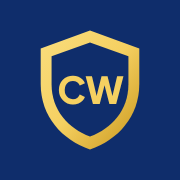
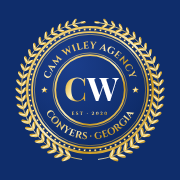
Brand: the Cam Wiley Agency seal replaces the shield
- Full seal (olive wreath, beaded border, CAM WILEY AGENCY / CONYERS ·
  GEORGIA, serif CW, EST · 2020): public/brand/cw-seal.png, the
  home-screen icons (apple-touch-icon, icon-512).
- Small form (foil ring + serif CW) in the header everywhere, the browser
  tab icon (PNG + ICO) and the share image.
- Playfair Display loaded for the CW.

Claude-Session: https://claude.ai/code/session_01ALNZAc94dnod2U2WV7PUZi

diff --git a/src/components/BrandLogo.jsx b/src/components/BrandLogo.jsx
@@ -1,23 +1,29 @@
 // src/components/BrandLogo.jsx
-// The brand: a gold-edged navy shield with "CW", "Cam Wiley Agency", and a line
+// The brand: the Cam Wiley Agency seal (small form), "Cam Wiley Agency", and a line
 // under it ("Allstate agent · Conyers, GA", editable in the copy editor).
 // `tone`: 'dark' on the blue header, 'light' on white. The same lockup everywhere:
 // one size, mark beside both lines, so it always reads as the same logo.
 import { useId } from 'react';
 import { T } from './SiteCopy';
 
-export function ShieldMark({ className = 'h-8 w-8' }) {
+// The seal's small form (the full seal, with its olive wreath and lettering, is
+// public/brand/cw-seal.png): a foil-gold ring with a serif C in gold and W in white.
+export function SealMark({ className = 'h-9 w-9' }) {
   const id = useId().replace(/:/g, '');
   return (
     <svg viewBox="0 0 40 40" className={className} aria-hidden="true">
       <defs>
-        <linearGradient id={`cwg${id}`} x1="0" y1="0" x2="1" y2="1">
-          <stop offset="0" stopColor="#F9DD7E" /><stop offset=".5" stopColor="#F5D061" /><stop offset="1" stopColor="#C9971C" />
+        <linearGradient id={`cwf${id}`} x1="0" y1="0" x2="1" y2="1">
+          <stop offset="0" stopColor="#FCEBA8" /><stop offset=".35" stopColor="#E9C25A" /><stop offset=".55" stopColor="#FFF1BF" /><stop offset="1" stopColor="#C9971C" />
         </linearGradient>
       </defs>
-      <path d="M20 2.5 34.5 7.8v10.4c0 9.6-6.3 16.4-14.5 19.3C11.8 34.6 5.5 27.8 5.5 18.2V7.8z" fill={`url(#cwg${id})`} />
-      <path d="M20 6 31.3 10.1v8.2c0 7.6-4.9 13-11.3 15.4-6.4-2.4-11.3-7.8-11.3-15.4v-8.2z" fill="#0F2D6B" />
-      <text x="20" y="24.2" textAnchor="middle" fontFamily="'Plus Jakarta Sans', Inter, sans-serif" fontWeight="800" fontSize="11.5" fill="#F5D061" letterSpacing="-.3">CW</text>
+      <circle cx="20" cy="20" r="19.4" fill={`url(#cwf${id})`} />
+      <circle cx="20" cy="20" r="17.4" fill="#0F2D6B" />
+      <circle cx="20" cy="20" r="15.4" fill="none" stroke={`url(#cwf${id})`} strokeWidth=".8" />
+      <g fontFamily="'Playfair Display', Georgia, serif" fontWeight="700" textAnchor="middle">
+        <text x="13.4" y="25" fontSize="13.2" fill={`url(#cwf${id})`}>C</text>
+        <text x="25.4" y="25" fontSize="13.2" fill="#fff">W</text>
+      </g>
     </svg>
   );
 }
@@ -28,7 +34,7 @@ export default function BrandLogo({ tone = 'dark', className = '' }) {
   const mark = 'h-9 w-9';
   return (
     <span className={`inline-flex items-center gap-2.5 ${className}`}>
-      <ShieldMark className={`${mark} shrink-0`} />
+      <SealMark className={`${mark} shrink-0`} />
       <span className="flex min-w-0 flex-col leading-none">
         <span className={`whitespace-nowrap font-extrabold tracking-tight ${name} ${dark ? 'text-white' : 'text-[#0F2D6B]'}`}
           style={{ fontFamily: "var(--font-display, 'Plus Jakarta Sans', Inter, sans-serif)" }}>Cam Wiley Agency</span>

diff --git a/index.html b/index.html
@@ -208,17 +208,17 @@
     <link rel="preconnect" href="https://fonts.googleapis.com">
     <link rel="preconnect" href="https://fonts.gstatic.com" crossorigin>
     <link rel="preload" as="style"
-      href="https://fonts.googleapis.com/css2?family=Inter:wght@400;500;600;700;800&family=Plus+Jakarta+Sans:wght@700;800&family=DM+Mono:wght@400;500&display=swap">
+      href="https://fonts.googleapis.com/css2?family=Inter:wght@400;500;600;700;800&family=Plus+Jakarta+Sans:wght@700;800&family=Playfair+Display:wght@700&family=DM+Mono:wght@400;500&display=swap">
     <link rel="stylesheet"
-      href="https://fonts.googleapis.com/css2?family=Inter:wght@400;500;600;700;800&family=Plus+Jakarta+Sans:wght@700;800&family=DM+Mono:wght@400;500&display=swap"
+      href="https://fonts.googleapis.com/css2?family=Inter:wght@400;500;600;700;800&family=Plus+Jakarta+Sans:wght@700;800&family=Playfair+Display:wght@700&family=DM+Mono:wght@400;500&display=swap"
       media="print" onload="this.media='all'">
     <noscript>
       <link rel="stylesheet"
-        href="https://fonts.googleapis.com/css2?family=Inter:wght@400;500;600;700;800&family=Plus+Jakarta+Sans:wght@700;800&family=DM+Mono:wght@400;500&display=swap">
+        href="https://fonts.googleapis.com/css2?family=Inter:wght@400;500;600;700;800&family=Plus+Jakarta+Sans:wght@700;800&family=Playfair+Display:wght@700&family=DM+Mono:wght@400;500&display=swap">
     </noscript>
 
     <!-- Favicon -->
-    <link rel="icon" type="image/svg+xml" href="/favicon.svg" />
+    <link rel="icon" type="image/png" sizes="32x32" href="/favicon-32.png" />
     <link rel="icon" type="image/x-icon" href="/favicon-new.ico" sizes="any" />
     <link rel="apple-touch-icon" href="/apple-touch-icon.png" />
     <meta name="apple-mobile-web-app-title" content="Cam Wiley Agency" />
